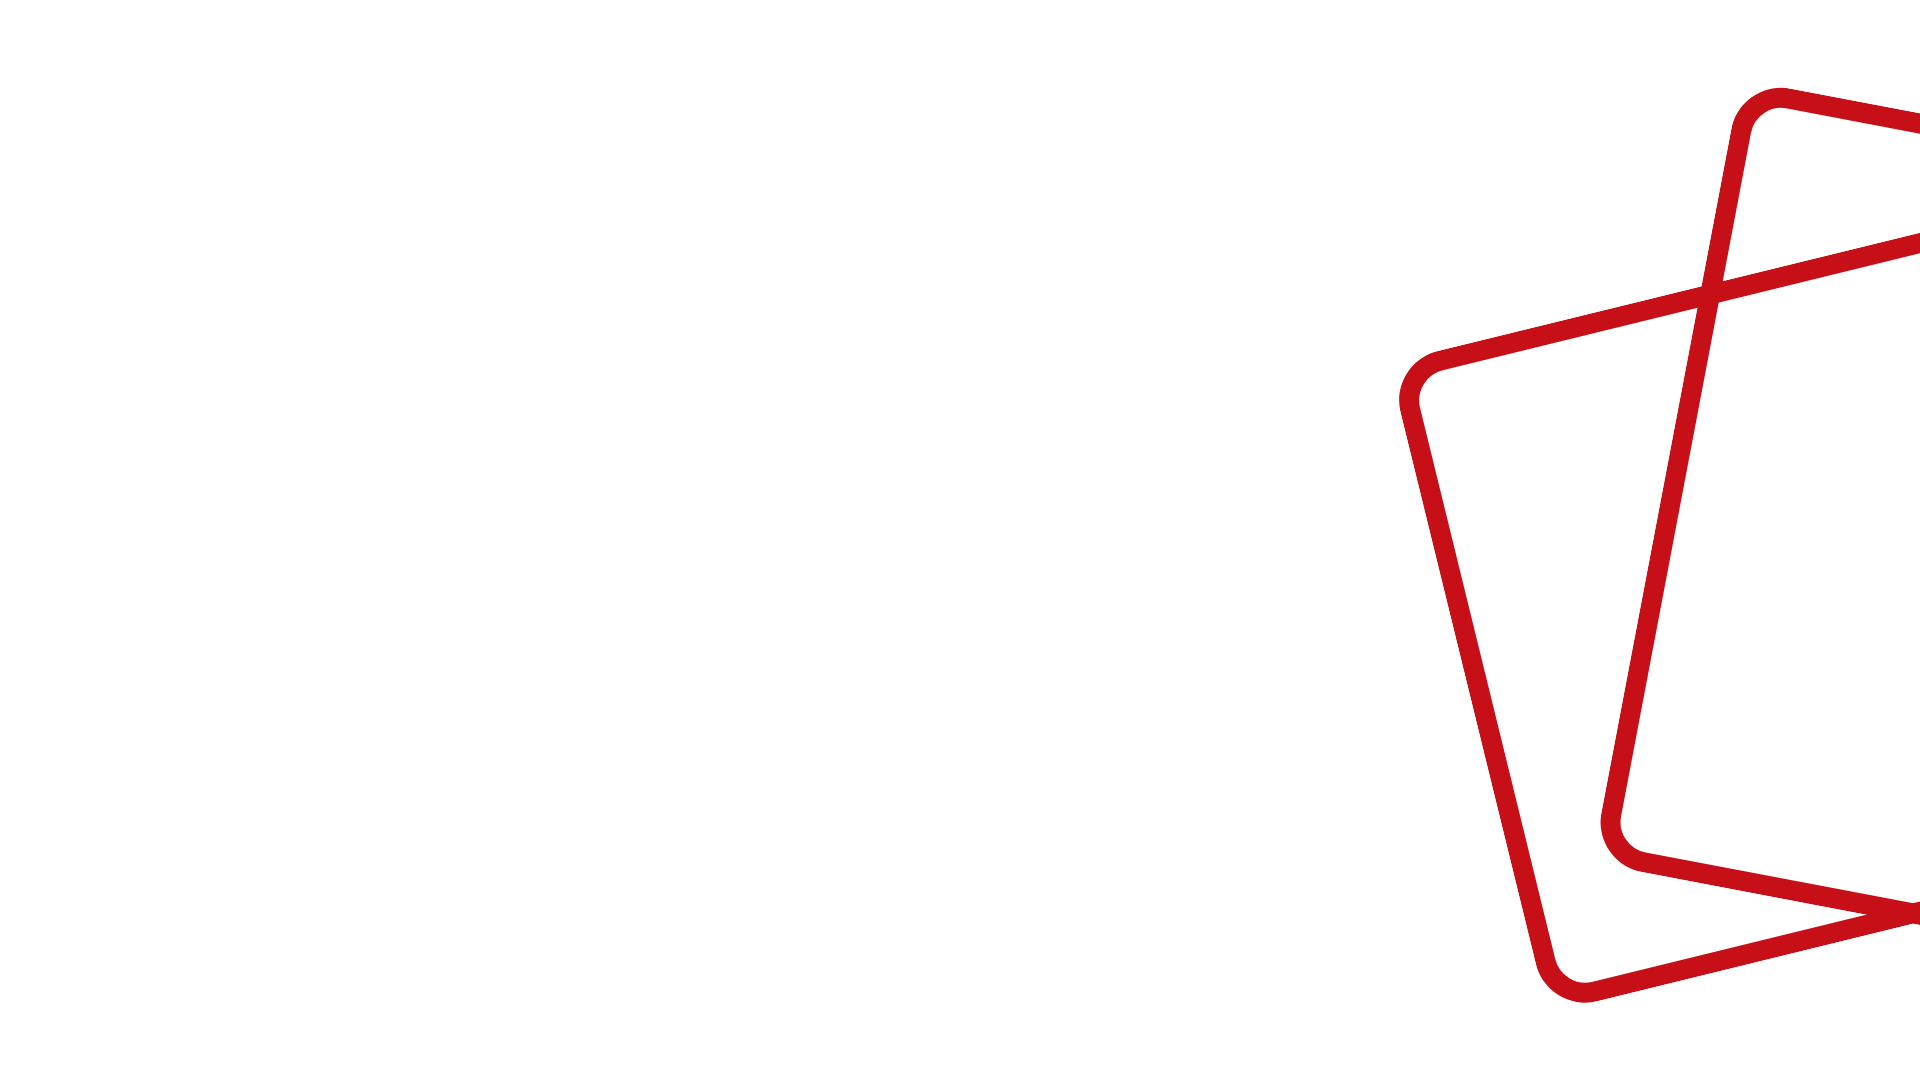
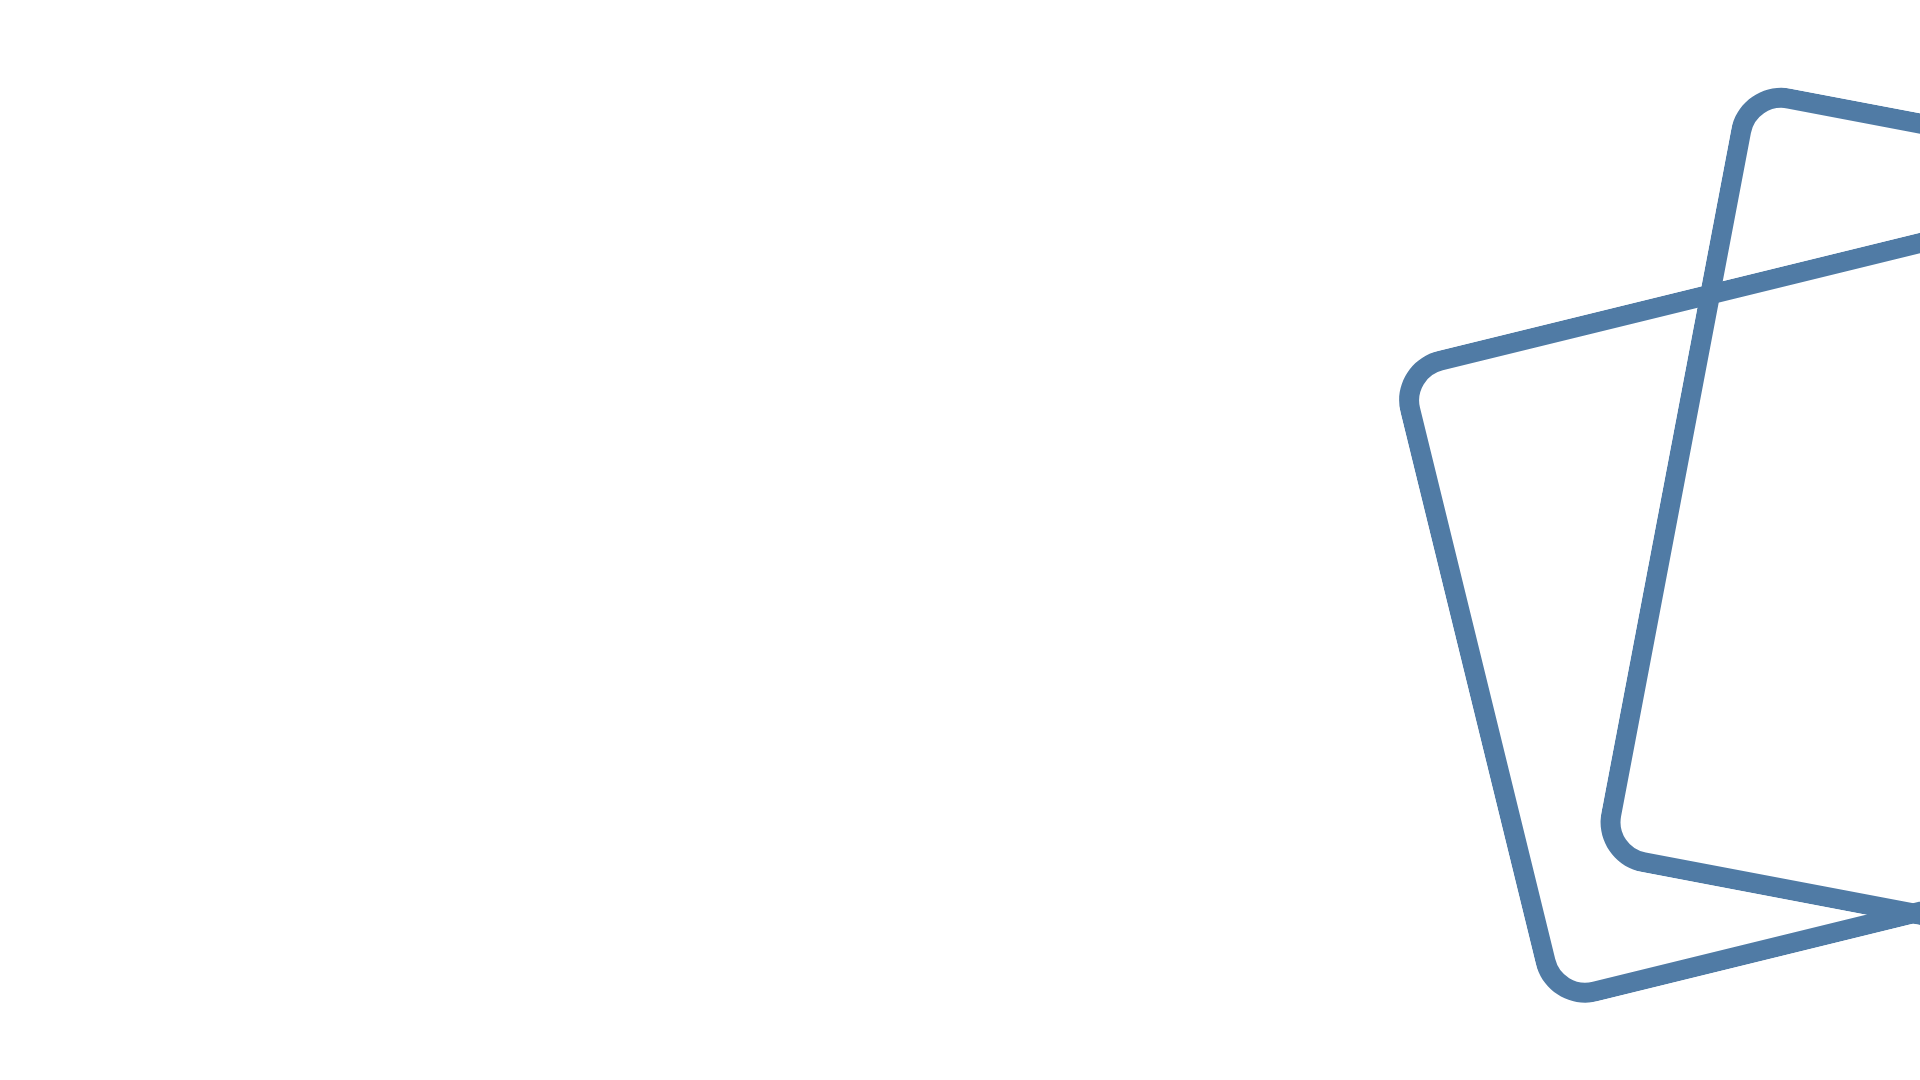
att

Changed region(s): [[0.7188, 0.0611, 1.0, 0.9472]]

diff --git a/src/components/Adesivos/index.css b/src/components/Adesivos/index.css
@@ -100,7 +100,7 @@
 }
 
 .adesivos__btns button.active {
-    background-color: var(--color--red--fast);
+    background-color: var(--color--blue--quartzolit);
     color: var(--background--white);
 }
 
@@ -122,7 +122,7 @@
 .adesivos__imgs button{
     height: 10%;
     padding: 10px;
-    background-color: var(--color--red--fast);
+    background-color: var(--color--blue--quartzolit);
     color: var(--background--white);
     border-radius: var(--border--radius);
     border: 2px solid var(--color--black--quartzolit);
